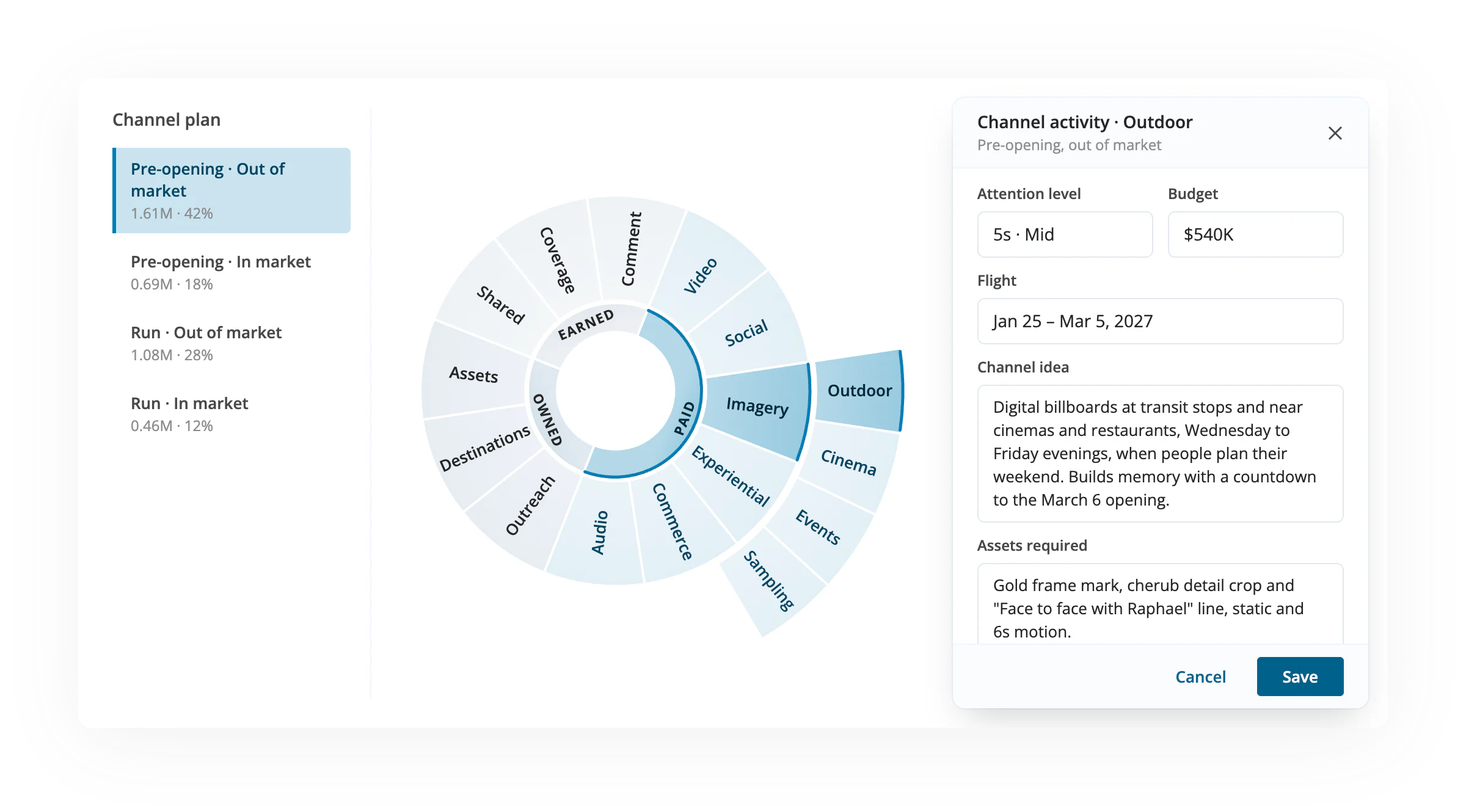
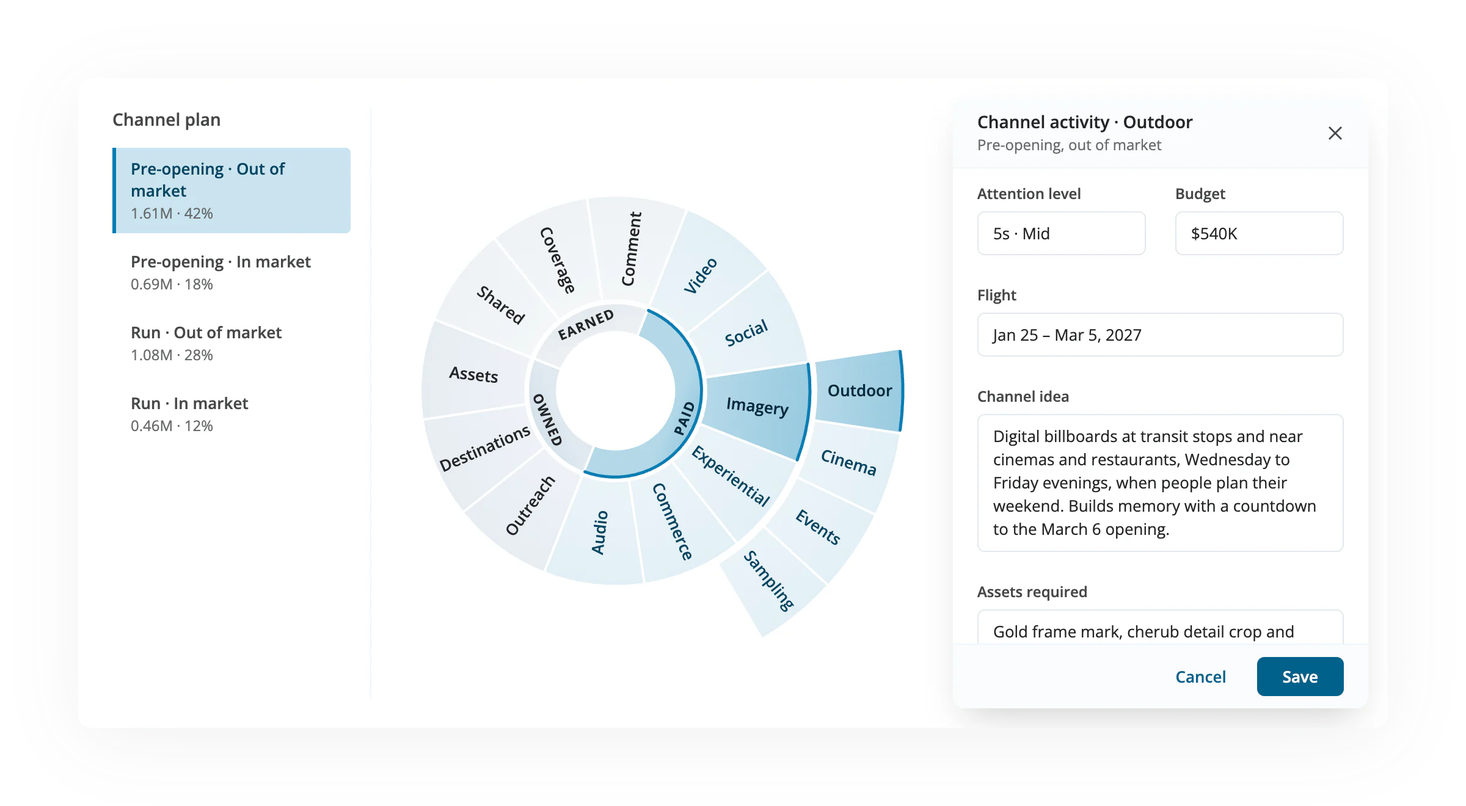
Tighten the module screens' fields, buttons and helper text
Single-line fields are 36px tall, all fields use 13px text and sit 24px
apart, buttons get 6px corners, helper text darkens to #686A6C, and the
side drawers drop their 1px outline but keep their shadow. The Channel
drawer's last field now runs under the footer, which is intended.

diff --git a/design/case2-screens/new-client-ideation.dc.html b/design/case2-screens/new-client-ideation.dc.html
@@ -12,19 +12,19 @@
 <div style="position:relative;width:100%;height:100%;background:#fff;border-radius:10px;box-shadow:0 10px 60px -5px rgba(59,62,63,.08);overflow:hidden">
 <div style="padding:24px 28px;display:flex;flex-direction:column;gap:18px">
 <span style="font-size:14px;font-weight:600">Campaign Brief</span>
-<div style="display:grid;grid-template-columns:1.25fr 1fr;gap:20px">
-<div style="display:flex;flex-direction:column;gap:6px"><span style="display:flex;align-items:center;gap:4px;font-size:12px;font-weight:600;color:#464849">Goal</span><div style="flex:1;background:#fff;border:1px solid #E4E8ED;border-radius:6px;color:#242526;padding:10px 12px;font-size:14px;line-height:22px;text-wrap:pretty">Make the Raphael exhibition the spring show people book early. Only 6% of the city knows it is coming, so we build memory before the March 6 opening, then turn it into ticket sales across the 12-week run.</div></div>
-<div style="display:grid;grid-template-columns:1fr 1fr;gap:12px">
-<div style="grid-column:1 / -1;display:flex;flex-direction:column;gap:6px"><span style="display:flex;align-items:center;gap:4px;font-size:12px;font-weight:600;color:#464849">Core audience</span><div style="background:#fff;border:1px solid #E4E8ED;border-radius:6px;color:#242526;padding:8px 12px;font-size:14px;line-height:20px">Culture-curious adults 25–54 within 90 minutes of the museum</div></div>
-<div style="display:flex;flex-direction:column;gap:6px"><span style="display:flex;align-items:center;gap:4px;font-size:12px;font-weight:600;color:#464849">Awareness KPI</span><div style="background:#fff;border:1px solid #E4E8ED;border-radius:6px;color:#242526;padding:8px 12px;font-size:14px;line-height:20px">6% → 25% by opening</div></div>
-<div style="display:flex;flex-direction:column;gap:6px"><span style="display:flex;align-items:center;gap:4px;font-size:12px;font-weight:600;color:#464849">Ticket KPI</span><div style="background:#fff;border:1px solid #E4E8ED;border-radius:6px;color:#242526;padding:8px 12px;font-size:14px;line-height:20px">180K tickets</div></div>
-<div style="display:flex;flex-direction:column;gap:6px"><span style="display:flex;align-items:center;gap:4px;font-size:12px;font-weight:600;color:#464849">Media budget</span><div style="background:#fff;border:1px solid #E4E8ED;border-radius:6px;color:#242526;padding:8px 12px;font-size:14px;line-height:20px">$4.2M</div></div>
-<div style="display:flex;flex-direction:column;gap:6px"><span style="display:flex;align-items:center;gap:4px;font-size:12px;font-weight:600;color:#464849">Flight</span><div style="background:#fff;border:1px solid #E4E8ED;border-radius:6px;color:#242526;padding:8px 12px;font-size:14px;line-height:20px">Jan 18 – May 30, 2027</div></div>
+<div style="display:grid;grid-template-columns:1.25fr 1fr;gap:24px">
+<div style="display:flex;flex-direction:column;gap:6px"><span style="display:flex;align-items:center;gap:4px;font-size:12px;font-weight:600;color:#464849">Goal</span><div style="flex:1;background:#fff;border:1px solid #E4E8ED;border-radius:6px;color:#242526;padding:8px 12px;font-size:13px;line-height:19px;text-wrap:pretty">Make the Raphael exhibition the spring show people book early. Only 6% of the city knows it is coming, so we build memory before the March 6 opening, then turn it into ticket sales across the 12-week run.</div></div>
+<div style="display:grid;grid-template-columns:1fr 1fr;gap:24px">
+<div style="grid-column:1 / -1;display:flex;flex-direction:column;gap:6px"><span style="display:flex;align-items:center;gap:4px;font-size:12px;font-weight:600;color:#464849">Core audience</span><div style="background:#fff;height:36px;display:flex;align-items:center;border:1px solid #E4E8ED;border-radius:6px;color:#242526;padding:0 12px;font-size:13px;line-height:19px">Culture-curious adults 25–54 within 90 minutes of the museum</div></div>
+<div style="display:flex;flex-direction:column;gap:6px"><span style="display:flex;align-items:center;gap:4px;font-size:12px;font-weight:600;color:#464849">Awareness KPI</span><div style="background:#fff;height:36px;display:flex;align-items:center;border:1px solid #E4E8ED;border-radius:6px;color:#242526;padding:0 12px;font-size:13px;line-height:19px">6% → 25% by opening</div></div>
+<div style="display:flex;flex-direction:column;gap:6px"><span style="display:flex;align-items:center;gap:4px;font-size:12px;font-weight:600;color:#464849">Ticket KPI</span><div style="background:#fff;height:36px;display:flex;align-items:center;border:1px solid #E4E8ED;border-radius:6px;color:#242526;padding:0 12px;font-size:13px;line-height:19px">180K tickets</div></div>
+<div style="display:flex;flex-direction:column;gap:6px"><span style="display:flex;align-items:center;gap:4px;font-size:12px;font-weight:600;color:#464849">Media budget</span><div style="background:#fff;height:36px;display:flex;align-items:center;border:1px solid #E4E8ED;border-radius:6px;color:#242526;padding:0 12px;font-size:13px;line-height:19px">$4.2M</div></div>
+<div style="display:flex;flex-direction:column;gap:6px"><span style="display:flex;align-items:center;gap:4px;font-size:12px;font-weight:600;color:#464849">Flight</span><div style="background:#fff;height:36px;display:flex;align-items:center;border:1px solid #E4E8ED;border-radius:6px;color:#242526;padding:0 12px;font-size:13px;line-height:19px">Jan 18 – May 30, 2027</div></div>
 </div></div>
 <div style="height:1px;background:#F1F5FA"></div>
 <div style="display:grid;grid-template-columns:1fr 1px 1fr;gap:28px">
 <div style="display:flex;flex-direction:column;gap:14px">
-<div style="display:flex;align-items:center;gap:16px"><span style="font-size:14px;font-weight:600">Need states</span><span style="display:flex;align-items:center;gap:6px;height:28px;padding:0 12px;font-size:13px;font-weight:600;color:#00618B;background:#fff;border:1px solid #00618B;border-radius:3px"><svg width="10" height="10" viewBox="0 0 10 10" fill="none" stroke="#00618B" stroke-width="1.5"><path d="M5 1v8M1 5h8"></path></svg>Add state</span></div>
+<div style="display:flex;align-items:center;gap:16px"><span style="font-size:14px;font-weight:600">Need states</span><span style="display:flex;align-items:center;gap:6px;height:28px;padding:0 12px;font-size:13px;font-weight:600;color:#00618B;background:#fff;border:1px solid #00618B;border-radius:6px"><svg width="10" height="10" viewBox="0 0 10 10" fill="none" stroke="#00618B" stroke-width="1.5"><path d="M5 1v8M1 5h8"></path></svg>Add state</span></div>
 <div style="display:flex;flex-wrap:wrap;gap:10px">
 <span style="display:flex;align-items:center;gap:8px;height:32px;padding:0 8px 0 12px;background:#CAE4EF;border:1px solid #CAE4EF;border-radius:6px;font-size:14px;color:#00618B">Weekend plans for two<svg width="16" height="16" viewBox="0 0 16 16" fill="none" stroke="#00618B" stroke-width="1.4" stroke-linecap="round"><circle cx="8" cy="8" r="6.5"></circle><path d="M5.8 5.8l4.4 4.4M10.2 5.8l-4.4 4.4"></path></svg></span>
 <span style="display:flex;align-items:center;gap:8px;height:32px;padding:0 8px 0 12px;background:#CAE4EF;border:1px solid #CAE4EF;border-radius:6px;font-size:14px;color:#00618B">A reason to go into town<svg width="16" height="16" viewBox="0 0 16 16" fill="none" stroke="#00618B" stroke-width="1.4" stroke-linecap="round"><circle cx="8" cy="8" r="6.5"></circle><path d="M5.8 5.8l4.4 4.4M10.2 5.8l-4.4 4.4"></path></svg></span>
@@ -33,7 +33,7 @@
 </div></div>
 <div style="background:#F1F5FA"></div>
 <div style="display:flex;flex-direction:column;gap:14px">
-<div style="display:flex;align-items:center;gap:16px"><span style="font-size:14px;font-weight:600">Distinctive assets</span><span style="display:flex;align-items:center;gap:6px;height:28px;padding:0 12px;font-size:13px;font-weight:600;color:#00618B;background:#fff;border:1px solid #00618B;border-radius:3px"><svg width="10" height="10" viewBox="0 0 10 10" fill="none" stroke="#00618B" stroke-width="1.5"><path d="M5 1v8M1 5h8"></path></svg>Add asset</span></div>
+<div style="display:flex;align-items:center;gap:16px"><span style="font-size:14px;font-weight:600">Distinctive assets</span><span style="display:flex;align-items:center;gap:6px;height:28px;padding:0 12px;font-size:13px;font-weight:600;color:#00618B;background:#fff;border:1px solid #00618B;border-radius:6px"><svg width="10" height="10" viewBox="0 0 10 10" fill="none" stroke="#00618B" stroke-width="1.5"><path d="M5 1v8M1 5h8"></path></svg>Add asset</span></div>
 <div style="display:flex;flex-wrap:wrap;gap:10px">
 <span style="display:flex;align-items:center;gap:8px;height:32px;padding:0 8px 0 12px;background:#CAE4EF;border:1px solid #CAE4EF;border-radius:6px;font-size:14px;color:#00618B">Gold frame mark<svg width="16" height="16" viewBox="0 0 16 16" fill="none" stroke="#00618B" stroke-width="1.4" stroke-linecap="round"><circle cx="8" cy="8" r="6.5"></circle><path d="M5.8 5.8l4.4 4.4M10.2 5.8l-4.4 4.4"></path></svg></span>
 <span style="display:flex;align-items:center;gap:8px;height:32px;padding:0 8px 0 12px;background:#CAE4EF;border:1px solid #CAE4EF;border-radius:6px;font-size:14px;color:#00618B">"Face to face with Raphael" line<svg width="16" height="16" viewBox="0 0 16 16" fill="none" stroke="#00618B" stroke-width="1.4" stroke-linecap="round"><circle cx="8" cy="8" r="6.5"></circle><path d="M5.8 5.8l4.4 4.4M10.2 5.8l-4.4 4.4"></path></svg></span>

diff --git a/design/case2-screens/new-client-audience.dc.html b/design/case2-screens/new-client-audience.dc.html
@@ -11,14 +11,14 @@
 <div id="shot-2" data-screen-label="02 Audience viz" style="width:1120px;height:580px;padding:24px;background:transparent;font-family:'Open Sans',sans-serif">
 <div style="position:relative;width:100%;height:100%;background:#fff;border-radius:10px;box-shadow:0 10px 60px -5px rgba(59,62,63,.08);overflow:hidden">
 <div style="position:absolute;top:0;left:0;bottom:0;width:700px;padding:24px 28px">
-<div style="display:flex;justify-content:space-between;align-items:baseline;gap:16px"><span style="font-size:14px;font-weight:600;white-space:nowrap">Core Audience</span><span style="display:flex;align-items:center;gap:8px"><span style="font-size:13px;color:#8B8D90;white-space:nowrap"><br></span></span></div>
+<div style="display:flex;justify-content:space-between;align-items:baseline;gap:16px"><span style="font-size:14px;font-weight:600;white-space:nowrap">Core Audience</span><span style="display:flex;align-items:center;gap:8px"><span style="font-size:13px;color:#686A6C;white-space:nowrap"><br></span></span></div>
 <div style="position:relative;margin-top:22px;height:370px">
-<div style="position:absolute;left:110px;top:0;width:270px;text-align:center;display:flex;flex-direction:column;gap:1px"><span style="font-size:14px;font-weight:600">Pre-opening</span><span style="font-size:12px;color:#8B8D90">Jan–Feb · 2.30M · 60%</span></div>
-<div style="position:absolute;left:380px;top:0;width:270px;text-align:center;display:flex;flex-direction:column;gap:1px"><span style="font-size:14px;font-weight:600">Run</span><span style="font-size:12px;color:#8B8D90">Mar–May · 1.54M · 40%</span></div>
+<div style="position:absolute;left:110px;top:0;width:270px;text-align:center;display:flex;flex-direction:column;gap:1px"><span style="font-size:14px;font-weight:600">Pre-opening</span><span style="font-size:12px;color:#686A6C">Jan–Feb · 2.30M · 60%</span></div>
+<div style="position:absolute;left:380px;top:0;width:270px;text-align:center;display:flex;flex-direction:column;gap:1px"><span style="font-size:14px;font-weight:600">Run</span><span style="font-size:12px;color:#686A6C">Mar–May · 1.54M · 40%</span></div>
 <span style="position:absolute;left:0;top:144px;font-size:14px;font-weight:600">Out of market</span>
-<span style="position:absolute;left:0;top:162px;font-size:12px;color:#8B8D90">70%</span>
+<span style="position:absolute;left:0;top:162px;font-size:12px;color:#686A6C">70%</span>
 <span style="position:absolute;left:0;top:293px;font-size:14px;font-weight:600">In the market</span>
-<span style="position:absolute;left:0;top:311px;font-size:12px;color:#8B8D90">30%</span>
+<span style="position:absolute;left:0;top:311px;font-size:12px;color:#686A6C">30%</span>
 <svg style="position:absolute;left:110px;top:50px" width="540" height="316" viewBox="0 0 540 316">
 <polygon points="0,0 270,0 270,221 97,221" fill="#CAE4EF" stroke="#007DB3" stroke-width="1.5"></polygon>
 <polygon points="270,0 540,0 443,221 270,221" fill="#F1F5FA" stroke="#fff" stroke-width="3"></polygon>
@@ -26,11 +26,11 @@
 <polygon points="270,221 443,221 401,316 270,316" fill="#F1F5FA" stroke="#fff" stroke-width="3"></polygon>
 </svg>
 <div style="position:absolute;left:220px;top:136px;display:flex;flex-direction:column;align-items:center;gap:2px"><span style="font-size:18px;font-weight:600;color:#004563">1.61M</span><span style="font-size:12px;color:#004563">42% of audience</span></div>
-<div style="position:absolute;left:450px;top:136px;display:flex;flex-direction:column;align-items:center;gap:2px"><span style="font-size:18px;font-weight:600">1.08M</span><span style="font-size:12px;color:#8B8D90">28% of audience</span></div>
-<div style="position:absolute;left:256px;top:300px;display:flex;flex-direction:column;align-items:center;gap:2px"><span style="font-size:16px;font-weight:600">0.69M</span><span style="font-size:12px;color:#8B8D90">18%</span></div>
-<div style="position:absolute;left:426px;top:300px;display:flex;flex-direction:column;align-items:center;gap:2px"><span style="font-size:16px;font-weight:600">0.46M</span><span style="font-size:12px;color:#8B8D90">12%</span></div>
+<div style="position:absolute;left:450px;top:136px;display:flex;flex-direction:column;align-items:center;gap:2px"><span style="font-size:18px;font-weight:600">1.08M</span><span style="font-size:12px;color:#686A6C">28% of audience</span></div>
+<div style="position:absolute;left:256px;top:300px;display:flex;flex-direction:column;align-items:center;gap:2px"><span style="font-size:16px;font-weight:600">0.69M</span><span style="font-size:12px;color:#686A6C">18%</span></div>
+<div style="position:absolute;left:426px;top:300px;display:flex;flex-direction:column;align-items:center;gap:2px"><span style="font-size:16px;font-weight:600">0.46M</span><span style="font-size:12px;color:#686A6C">12%</span></div>
 </div></div>
-<div style="position:absolute;top:16px;right:16px;bottom:16px;width:340px;background:#fff;border-radius:10px;box-shadow:0 15px 30px -9px rgba(36,37,38,.22),0 0 0 1px #F1F5FA;display:flex;flex-direction:column;overflow:hidden">
+<div style="position:absolute;top:16px;right:16px;bottom:16px;width:340px;background:#fff;border-radius:10px;box-shadow:0 15px 30px -9px rgba(36,37,38,.22);display:flex;flex-direction:column;overflow:hidden">
 <div style="display:flex;justify-content:space-between;align-items:center;padding:10px 20px;border-bottom:1px solid #F1F5FA;background:#FAFBFD"><span style="font-size:14px;font-weight:600;color:#242526">Strategy · Pre-opening, out of market</span><svg width="14" height="14" viewBox="0 0 14 14" fill="none" stroke="#464849" stroke-width="1.4"><path d="M2 2l10 10M12 2L2 12"></path></svg></div>
 <div style="padding:12px 20px;display:flex;flex-direction:column;gap:10px;flex:1;min-height:0;overflow:hidden">
 <div style="display:flex;flex-direction:column;gap:7px"><div style="display:flex;justify-content:space-between;font-size:13px;font-weight:600"><span>Information</span><span>Associations</span></div><div style="position:relative;height:4px;border-radius:2px;background:#CAE4EF"><div style="width:78%;height:4px;border-radius:2px;background:#007DB3"></div><div style="position:absolute;left:78%;top:-6px;width:16px;height:16px;margin-left:-8px;border-radius:50%;background:#007DB3;box-shadow:0 0 0 2px #fff,0 2px 4px rgba(0,125,179,.3)"></div></div></div>
@@ -45,7 +45,7 @@
 <span>Activating</span><div style="height:8px;border-radius:4px;width:12%;background:#CAE4EF"></div>
 </div></div>
 <div style="display:flex;flex-direction:column;gap:6px"><span style="display:flex;align-items:center;gap:4px;font-size:12px;font-weight:600;color:#464849">Strategy</span><div style="background:#fff;border:1px solid #E4E8ED;border-radius:6px;color:#242526;padding:8px 12px;font-size:13px;line-height:19px;text-wrap:pretty"><span style="font-weight:600">Build memory before opening.</span> Most of this group doesn't know the show is coming. Tie the exhibition to weekend plans now, so awareness is near 25% when they book in March.</div></div>
-</div><div style="margin-top:auto;display:flex;justify-content:flex-end;gap:8px;padding:10px 20px;border-top:1px solid #F1F5FA;background:#FAFBFD"><span style="display:flex;align-items:center;height:32px;padding:0 16px;font-size:13px;font-weight:600;color:#00618B;background:transparent;border:1px solid transparent;border-radius:3px">Cancel</span><span style="display:flex;align-items:center;height:32px;padding:0 20px;font-size:13px;font-weight:600;color:#fff;background:#00618B;border:1px solid #00618B;border-radius:3px">Save</span></div></div>
+</div><div style="margin-top:auto;display:flex;justify-content:flex-end;gap:8px;padding:10px 20px;border-top:1px solid #F1F5FA;background:#FAFBFD"><span style="display:flex;align-items:center;height:32px;padding:0 16px;font-size:13px;font-weight:600;color:#00618B;background:transparent;border:1px solid transparent;border-radius:6px">Cancel</span><span style="display:flex;align-items:center;height:32px;padding:0 20px;font-size:13px;font-weight:600;color:#fff;background:#00618B;border:1px solid #00618B;border-radius:6px">Save</span></div></div>
 </div></div>
 </x-dc>
 <script type="text/x-dc" data-dc-script>

diff --git a/design/case2-screens/new-client-channel.dc.html b/design/case2-screens/new-client-channel.dc.html
@@ -14,7 +14,7 @@
 <div style="width:212px;flex:none;display:flex;flex-direction:column;gap:6px;border-right:1px solid #F1F5FA;padding-right:16px">
 <div style="display:flex;flex-direction:column;align-items:flex-start;gap:6px;padding-bottom:8px"><span style="font-size:14px;font-weight:600">Channel plan</span></div>
 <sc-for list="{{ segments }}" as="g" hint-placeholder-count="4">
-<div style="display:flex;flex-direction:column;gap:1px;padding:8px 12px;border-left:3px solid {{ g.border }};background:{{ g.bg }};border-radius:0 4px 4px 0"><span style="font-size:13px;font-weight:600;color:{{ g.fg }}">{{ g.name }}</span><span style="font-size:12px;color:#8B8D90">{{ g.meta }}</span></div>
+<div style="display:flex;flex-direction:column;gap:1px;padding:8px 12px;border-left:3px solid {{ g.border }};background:{{ g.bg }};border-radius:0 4px 4px 0"><span style="font-size:13px;font-weight:600;color:{{ g.fg }}">{{ g.name }}</span><span style="font-size:12px;color:#686A6C">{{ g.meta }}</span></div>
 </sc-for>
 </div>
 <div style="position:relative;flex:none;width:460px;height:476px;margin-top:-6px"><svg width="460" height="476" viewBox="0 0 460 476" style="position:absolute;left:0;top:0">
@@ -35,17 +35,17 @@
 </sc-for>
 </div>
 </div>
-<div style="position:absolute;top:16px;right:16px;bottom:16px;width:340px;background:#fff;border-radius:10px;box-shadow:0 15px 30px -9px rgba(36,37,38,.22),0 0 0 1px #F1F5FA;display:flex;flex-direction:column;overflow:hidden">
-<div style="display:flex;justify-content:space-between;align-items:center;padding:10px 20px;border-bottom:1px solid #F1F5FA;background:#FAFBFD"><div style="display:flex;flex-direction:column;gap:1px"><span style="font-size:14px;font-weight:600;color:#242526">Channel activity · Outdoor</span><span style="font-size:12px;color:#8B8D90">Pre-opening, out of market</span></div><svg width="14" height="14" viewBox="0 0 14 14" fill="none" stroke="#464849" stroke-width="1.4"><path d="M2 2l10 10M12 2L2 12"></path></svg></div>
-<div style="padding:12px 20px;display:flex;flex-direction:column;gap:10px;flex:1;min-height:0;overflow:hidden">
-<div style="display:grid;grid-template-columns:1fr 1fr;gap:12px">
-<div style="display:flex;flex-direction:column;gap:6px"><span style="display:flex;align-items:center;gap:4px;font-size:12px;font-weight:600;color:#464849;white-space:nowrap">Attention level</span><div style="background:#fff;border:1px solid #E4E8ED;border-radius:6px;color:#242526;padding:8px 12px;font-size:14px;line-height:20px;white-space:nowrap">5s · Mid</div></div>
-<div style="display:flex;flex-direction:column;gap:6px"><span style="display:flex;align-items:center;gap:4px;font-size:12px;font-weight:600;color:#464849">Budget</span><div style="background:#fff;border:1px solid #E4E8ED;border-radius:6px;color:#242526;padding:8px 12px;font-size:14px;line-height:20px">$540K</div></div>
+<div style="position:absolute;top:16px;right:16px;bottom:16px;width:340px;background:#fff;border-radius:10px;box-shadow:0 15px 30px -9px rgba(36,37,38,.22);display:flex;flex-direction:column;overflow:hidden">
+<div style="display:flex;justify-content:space-between;align-items:center;padding:10px 20px;border-bottom:1px solid #F1F5FA;background:#FAFBFD"><div style="display:flex;flex-direction:column;gap:1px"><span style="font-size:14px;font-weight:600;color:#242526">Channel activity · Outdoor</span><span style="font-size:12px;color:#686A6C">Pre-opening, out of market</span></div><svg width="14" height="14" viewBox="0 0 14 14" fill="none" stroke="#464849" stroke-width="1.4"><path d="M2 2l10 10M12 2L2 12"></path></svg></div>
+<div style="padding:12px 20px;display:flex;flex-direction:column;gap:24px;flex:1;min-height:0;overflow:hidden">
+<div style="display:grid;grid-template-columns:1fr 1fr;gap:24px">
+<div style="display:flex;flex-direction:column;gap:6px"><span style="display:flex;align-items:center;gap:4px;font-size:12px;font-weight:600;color:#464849;white-space:nowrap">Attention level</span><div style="background:#fff;height:36px;display:flex;align-items:center;border:1px solid #E4E8ED;border-radius:6px;color:#242526;padding:0 12px;font-size:13px;line-height:19px;white-space:nowrap">5s · Mid</div></div>
+<div style="display:flex;flex-direction:column;gap:6px"><span style="display:flex;align-items:center;gap:4px;font-size:12px;font-weight:600;color:#464849">Budget</span><div style="background:#fff;height:36px;display:flex;align-items:center;border:1px solid #E4E8ED;border-radius:6px;color:#242526;padding:0 12px;font-size:13px;line-height:19px">$540K</div></div>
 </div>
-<div style="display:flex;flex-direction:column;gap:6px"><span style="display:flex;align-items:center;gap:4px;font-size:12px;font-weight:600;color:#464849">Flight</span><div style="background:#fff;border:1px solid #E4E8ED;border-radius:6px;color:#242526;padding:8px 12px;font-size:14px;line-height:20px">Jan 25 – Mar 5, 2027</div></div>
+<div style="display:flex;flex-direction:column;gap:6px"><span style="display:flex;align-items:center;gap:4px;font-size:12px;font-weight:600;color:#464849">Flight</span><div style="background:#fff;height:36px;display:flex;align-items:center;border:1px solid #E4E8ED;border-radius:6px;color:#242526;padding:0 12px;font-size:13px;line-height:19px">Jan 25 – Mar 5, 2027</div></div>
 <div style="display:flex;flex-direction:column;gap:6px"><span style="display:flex;align-items:center;gap:4px;font-size:12px;font-weight:600;color:#464849">Channel idea</span><div style="background:#fff;border:1px solid #E4E8ED;border-radius:6px;color:#242526;padding:8px 12px;font-size:13px;line-height:19px;text-wrap:pretty">Digital billboards at transit stops and near cinemas and restaurants, Wednesday to Friday evenings, when people plan their weekend. Builds memory with a countdown to the March 6 opening.</div></div>
 <div style="display:flex;flex-direction:column;gap:6px"><span style="display:flex;align-items:center;gap:4px;font-size:12px;font-weight:600;color:#464849">Assets required</span><div style="background:#fff;border:1px solid #E4E8ED;border-radius:6px;color:#242526;padding:8px 12px;font-size:13px;line-height:19px;text-wrap:pretty">Gold frame mark, cherub detail crop and "Face to face with Raphael" line, static and 6s motion.</div></div>
-</div><div style="margin-top:auto;display:flex;justify-content:flex-end;gap:8px;padding:10px 20px;border-top:1px solid #F1F5FA;background:#FAFBFD"><span style="display:flex;align-items:center;height:32px;padding:0 16px;font-size:13px;font-weight:600;color:#00618B;background:transparent;border:1px solid transparent;border-radius:3px">Cancel</span><span style="display:flex;align-items:center;height:32px;padding:0 20px;font-size:13px;font-weight:600;color:#fff;background:#00618B;border:1px solid #00618B;border-radius:3px">Save</span></div></div>
+</div><div style="margin-top:auto;display:flex;justify-content:flex-end;gap:8px;padding:10px 20px;border-top:1px solid #F1F5FA;background:#FAFBFD"><span style="display:flex;align-items:center;height:32px;padding:0 16px;font-size:13px;font-weight:600;color:#00618B;background:transparent;border:1px solid transparent;border-radius:6px">Cancel</span><span style="display:flex;align-items:center;height:32px;padding:0 20px;font-size:13px;font-weight:600;color:#fff;background:#00618B;border:1px solid #00618B;border-radius:6px">Save</span></div></div>
 </div></div>
 </x-dc>
 <script type="text/x-dc" data-dc-script>

diff --git a/design/case2-screens/return-client-channel.dc.html b/design/case2-screens/return-client-channel.dc.html
@@ -14,7 +14,7 @@
 <div style="width:212px;flex:none;display:flex;flex-direction:column;gap:6px;border-right:1px solid #F1F5FA;padding-right:16px">
 <div style="display:flex;flex-direction:column;align-items:flex-start;gap:6px;padding-bottom:8px"><span style="font-size:14px;font-weight:600">Channel plan</span></div>
 <sc-for list="{{ segments }}" as="g" hint-placeholder-count="4">
-<div style="display:flex;flex-direction:column;gap:1px;padding:8px 12px;border-left:3px solid {{ g.border }};background:{{ g.bg }};border-radius:0 4px 4px 0"><span style="font-size:13px;font-weight:600;color:{{ g.fg }}">{{ g.name }}</span><span style="font-size:12px;color:#8B8D90">{{ g.meta }}</span></div>
+<div style="display:flex;flex-direction:column;gap:1px;padding:8px 12px;border-left:3px solid {{ g.border }};background:{{ g.bg }};border-radius:0 4px 4px 0"><span style="font-size:13px;font-weight:600;color:{{ g.fg }}">{{ g.name }}</span><span style="font-size:12px;color:#686A6C">{{ g.meta }}</span></div>
 </sc-for>
 </div>
 <div style="position:relative;flex:none;width:460px;height:476px;margin-top:-6px"><svg width="460" height="476" viewBox="0 0 460 476" style="position:absolute;left:0;top:0">
@@ -35,17 +35,17 @@
 </sc-for>
 </div>
 </div>
-<div style="position:absolute;top:16px;right:16px;bottom:16px;width:340px;background:#fff;border-radius:10px;box-shadow:0 15px 30px -9px rgba(36,37,38,.22),0 0 0 1px #F1F5FA;display:flex;flex-direction:column;overflow:hidden">
-<div style="display:flex;justify-content:space-between;align-items:center;padding:10px 20px;border-bottom:1px solid #F1F5FA;background:#FAFBFD"><div style="display:flex;flex-direction:column;gap:1px"><span style="font-size:14px;font-weight:600;color:#242526">Channel activity · Retail</span><span style="font-size:12px;color:#8B8D90">Fall, in market</span></div><svg width="14" height="14" viewBox="0 0 14 14" fill="none" stroke="#464849" stroke-width="1.4"><path d="M2 2l10 10M12 2L2 12"></path></svg></div>
-<div style="padding:12px 20px;display:flex;flex-direction:column;gap:10px;flex:1;min-height:0;overflow:hidden">
-<div style="display:grid;grid-template-columns:1fr 1fr;gap:12px">
-<div style="display:flex;flex-direction:column;gap:6px"><span style="display:flex;align-items:center;gap:4px;font-size:12px;font-weight:600;color:#464849;white-space:nowrap">Attention level</span><div style="background:#fff;border:1px solid #E4E8ED;border-radius:6px;color:#242526;padding:8px 12px;font-size:14px;line-height:20px;white-space:nowrap">3s · Mid-low</div></div>
-<div style="display:flex;flex-direction:column;gap:6px"><span style="display:flex;align-items:center;gap:4px;font-size:12px;font-weight:600;color:#464849">Budget</span><div style="background:#fff;border:1px solid #E4E8ED;border-radius:6px;color:#242526;padding:8px 12px;font-size:14px;line-height:20px">$380K</div></div>
+<div style="position:absolute;top:16px;right:16px;bottom:16px;width:340px;background:#fff;border-radius:10px;box-shadow:0 15px 30px -9px rgba(36,37,38,.22);display:flex;flex-direction:column;overflow:hidden">
+<div style="display:flex;justify-content:space-between;align-items:center;padding:10px 20px;border-bottom:1px solid #F1F5FA;background:#FAFBFD"><div style="display:flex;flex-direction:column;gap:1px"><span style="font-size:14px;font-weight:600;color:#242526">Channel activity · Retail</span><span style="font-size:12px;color:#686A6C">Fall, in market</span></div><svg width="14" height="14" viewBox="0 0 14 14" fill="none" stroke="#464849" stroke-width="1.4"><path d="M2 2l10 10M12 2L2 12"></path></svg></div>
+<div style="padding:12px 20px;display:flex;flex-direction:column;gap:24px;flex:1;min-height:0;overflow:hidden">
+<div style="display:grid;grid-template-columns:1fr 1fr;gap:24px">
+<div style="display:flex;flex-direction:column;gap:6px"><span style="display:flex;align-items:center;gap:4px;font-size:12px;font-weight:600;color:#464849;white-space:nowrap">Attention level</span><div style="background:#fff;height:36px;display:flex;align-items:center;border:1px solid #E4E8ED;border-radius:6px;color:#242526;padding:0 12px;font-size:13px;line-height:19px;white-space:nowrap">3s · Mid-low</div></div>
+<div style="display:flex;flex-direction:column;gap:6px"><span style="display:flex;align-items:center;gap:4px;font-size:12px;font-weight:600;color:#464849">Budget</span><div style="background:#fff;height:36px;display:flex;align-items:center;border:1px solid #E4E8ED;border-radius:6px;color:#242526;padding:0 12px;font-size:13px;line-height:19px">$380K</div></div>
 </div>
-<div style="display:flex;flex-direction:column;gap:6px"><span style="display:flex;align-items:center;gap:4px;font-size:12px;font-weight:600;color:#464849">Flight</span><div style="background:#fff;border:1px solid #E4E8ED;border-radius:6px;color:#242526;padding:8px 12px;font-size:14px;line-height:20px">Sep 8 – Oct 31, 2027</div></div>
+<div style="display:flex;flex-direction:column;gap:6px"><span style="display:flex;align-items:center;gap:4px;font-size:12px;font-weight:600;color:#464849">Flight</span><div style="background:#fff;height:36px;display:flex;align-items:center;border:1px solid #E4E8ED;border-radius:6px;color:#242526;padding:0 12px;font-size:13px;line-height:19px">Sep 8 – Oct 31, 2027</div></div>
 <div style="display:flex;flex-direction:column;gap:6px"><span style="display:flex;align-items:center;gap:4px;font-size:12px;font-weight:600;color:#464849">Channel idea</span><div style="background:#fff;border:1px solid #E4E8ED;border-radius:6px;color:#242526;padding:8px 12px;font-size:13px;line-height:19px;text-wrap:pretty">Sponsored listings on outdoor retailer sites and apps next to boots and jackets, weekend mornings. Spring buyers get a prompt for matching gear before the first cold-weather trips.</div></div>
 <div style="display:flex;flex-direction:column;gap:6px"><span style="display:flex;align-items:center;gap:4px;font-size:12px;font-weight:600;color:#464849">Assets required</span><div style="background:#fff;border:1px solid #E4E8ED;border-radius:6px;color:#242526;padding:8px 12px;font-size:13px;line-height:19px;text-wrap:pretty">Peak logo, trail pack shot and "Carry further" line, static banners and 3s bumper video.</div></div>
-</div><div style="margin-top:auto;display:flex;justify-content:flex-end;gap:8px;padding:10px 20px;border-top:1px solid #F1F5FA;background:#FAFBFD"><span style="display:flex;align-items:center;height:32px;padding:0 16px;font-size:13px;font-weight:600;color:#00618B;background:transparent;border:1px solid transparent;border-radius:3px">Cancel</span><span style="display:flex;align-items:center;height:32px;padding:0 20px;font-size:13px;font-weight:600;color:#fff;background:#00618B;border:1px solid #00618B;border-radius:3px">Save</span></div></div>
+</div><div style="margin-top:auto;display:flex;justify-content:flex-end;gap:8px;padding:10px 20px;border-top:1px solid #F1F5FA;background:#FAFBFD"><span style="display:flex;align-items:center;height:32px;padding:0 16px;font-size:13px;font-weight:600;color:#00618B;background:transparent;border:1px solid transparent;border-radius:6px">Cancel</span><span style="display:flex;align-items:center;height:32px;padding:0 20px;font-size:13px;font-weight:600;color:#fff;background:#00618B;border:1px solid #00618B;border-radius:6px">Save</span></div></div>
 </div></div>
 </x-dc>
 <script type="text/x-dc" data-dc-script>

diff --git a/design/case2-screens/new-client-attention.dc.html b/design/case2-screens/new-client-attention.dc.html
@@ -18,28 +18,28 @@
 </div>
 <div style="display:flex;flex-direction:column;gap:12px">
 <span style="font-size:14px;font-weight:600">Contact</span>
-<div style="display:grid;grid-template-columns:repeat(3,1fr);gap:14px 24px">
+<div style="display:grid;grid-template-columns:repeat(3,1fr);gap:24px">
 <sc-for list="{{ questions }}" as="q" hint-placeholder-count="6">
 <div style="display:flex;flex-direction:column;gap:6px"><div style="display:flex;justify-content:space-between;gap:8px;font-size:12px;font-weight:600;color:#464849"><span style="display:flex;align-items:center;gap:4px">{{ q.q }}</span><span style="width:60px;flex:none">Weight</span></div>
-<div style="display:flex;gap:8px"><div style="flex:1;height:36px;display:flex;align-items:center;justify-content:space-between;padding:0 12px;background:#fff;border:1px solid #E4E8ED;border-radius:6px;color:#242526;font-size:14px"><span style="display:flex;align-items:center;gap:8px">{{ q.a }}</span></div><div style="width:60px;height:36px;display:flex;align-items:center;justify-content:space-between;padding:0 10px;background:#fff;border:1px solid #E4E8ED;border-radius:6px;color:#242526;font-size:14px">{{ q.w }}<svg width="12" height="12" viewBox="0 0 12 12" fill="none" stroke="#686A6C" stroke-width="1.4"><path d="M2 4.5l4 4 4-4"></path></svg></div></div></div>
+<div style="display:flex;gap:8px"><div style="flex:1;height:36px;display:flex;align-items:center;justify-content:space-between;padding:0 12px;background:#fff;border:1px solid #E4E8ED;border-radius:6px;color:#242526;font-size:13px"><span style="display:flex;align-items:center;gap:8px">{{ q.a }}</span></div><div style="width:60px;height:36px;display:flex;align-items:center;justify-content:space-between;padding:0 10px;background:#fff;border:1px solid #E4E8ED;border-radius:6px;color:#242526;font-size:13px">{{ q.w }}<svg width="12" height="12" viewBox="0 0 12 12" fill="none" stroke="#686A6C" stroke-width="1.4"><path d="M2 4.5l4 4 4-4"></path></svg></div></div></div>
 </sc-for>
 </div></div>
 <div style="height:1px;background:#F1F5FA"></div>
 <div style="display:flex;flex-direction:column;gap:12px">
 <div style="display:flex;justify-content:space-between;align-items:flex-end;gap:24px">
-<div style="display:flex;flex-direction:column;gap:3px"><span style="font-size:14px;font-weight:600">Recommendation</span><span style="font-size:13px;color:#8B8D90">A building strategy for a low-awareness brand puts most of the budget into 5s and 10s.</span></div>
-<div style="display:flex;flex-direction:column;gap:6px;width:300px;flex:none"><span style="display:flex;align-items:center;gap:4px;font-size:12px;font-weight:600;color:#464849">Attention levels</span><div style="height:36px;display:flex;align-items:center;justify-content:space-between;padding:0 12px;background:#fff;border:1px solid #E4E8ED;border-radius:6px;color:#242526;font-size:14px">5-part mix (2s, 3s, 5s, 10s, 20s)<svg width="12" height="12" viewBox="0 0 12 12" fill="none" stroke="#686A6C" stroke-width="1.4"><path d="M2 4.5l4 4 4-4"></path></svg></div></div>
+<div style="display:flex;flex-direction:column;gap:3px"><span style="font-size:14px;font-weight:600">Recommendation</span><span style="font-size:13px;color:#686A6C">A building strategy for a low-awareness brand puts most of the budget into 5s and 10s.</span></div>
+<div style="display:flex;flex-direction:column;gap:6px;width:300px;flex:none"><span style="display:flex;align-items:center;gap:4px;font-size:12px;font-weight:600;color:#464849">Attention levels</span><div style="height:36px;display:flex;align-items:center;justify-content:space-between;padding:0 12px;background:#fff;border:1px solid #E4E8ED;border-radius:6px;color:#242526;font-size:13px">5-part mix (2s, 3s, 5s, 10s, 20s)<svg width="12" height="12" viewBox="0 0 12 12" fill="none" stroke="#686A6C" stroke-width="1.4"><path d="M2 4.5l4 4 4-4"></path></svg></div></div>
 </div>
 <div style="display:flex;flex-direction:column;gap:10px;background:#F1F5FA;border-radius:10px;padding:16px 24px 14px">
 <div style="display:grid;grid-template-columns:repeat(5,1fr)">
 <sc-for list="{{ levels }}" as="l" hint-placeholder-count="5">
 <div style="display:flex;justify-content:center;gap:24px;border-left:{{ l.bl }}">
-<div style="display:flex;flex-direction:column;align-items:center"><span style="font-size:20px;line-height:26px;font-weight:600;color:#242526">{{ l.s }}</span><span style="font-size:12px;color:#8B8D90">{{ l.name }}</span></div>
-<div style="display:flex;flex-direction:column;align-items:center"><span style="font-size:20px;line-height:26px;font-weight:600;color:{{ l.c }}">{{ l.pct }}</span><span style="font-size:12px;color:#8B8D90">{{ l.amt }}</span></div>
+<div style="display:flex;flex-direction:column;align-items:center"><span style="font-size:20px;line-height:26px;font-weight:600;color:#242526">{{ l.s }}</span><span style="font-size:12px;color:#686A6C">{{ l.name }}</span></div>
+<div style="display:flex;flex-direction:column;align-items:center"><span style="font-size:20px;line-height:26px;font-weight:600;color:{{ l.c }}">{{ l.pct }}</span><span style="font-size:12px;color:#686A6C">{{ l.amt }}</span></div>
 </div>
 </sc-for>
 </div>
-<span style="display:flex;justify-content:center;align-items:center;gap:8px;font-size:12px;color:#8B8D90">Split of the $4.2M media budget<span>Percentages are rounded so the full budget is allocated.</span></span>
+<span style="display:flex;justify-content:center;align-items:center;gap:8px;font-size:12px;color:#686A6C">Split of the $4.2M media budget<span>Percentages are rounded so the full budget is allocated.</span></span>
 </div></div>
 </div></div></div>
 </x-dc>

diff --git a/design/case2-screens/return-client-attention.dc.html b/design/case2-screens/return-client-attention.dc.html
@@ -18,28 +18,28 @@
 </div>
 <div style="display:flex;flex-direction:column;gap:12px">
 <span style="font-size:14px;font-weight:600">Contact</span>
-<div style="display:grid;grid-template-columns:repeat(3,1fr);gap:14px 24px">
+<div style="display:grid;grid-template-columns:repeat(3,1fr);gap:24px">
 <sc-for list="{{ questions }}" as="q" hint-placeholder-count="6">
 <div style="display:flex;flex-direction:column;gap:6px"><div style="display:flex;justify-content:space-between;gap:8px;font-size:12px;font-weight:600;color:#464849"><span style="display:flex;align-items:center;gap:4px">{{ q.q }}</span><span style="width:60px;flex:none">Weight</span></div>
-<div style="display:flex;gap:8px"><div style="flex:1;height:36px;display:flex;align-items:center;justify-content:space-between;padding:0 12px;background:#fff;border:1px solid #E4E8ED;border-radius:6px;color:#242526;font-size:14px"><span style="display:flex;align-items:center;gap:8px">{{ q.a }}</span></div><div style="width:60px;height:36px;display:flex;align-items:center;justify-content:space-between;padding:0 10px;background:#fff;border:1px solid #E4E8ED;border-radius:6px;color:#242526;font-size:14px">{{ q.w }}<svg width="12" height="12" viewBox="0 0 12 12" fill="none" stroke="#686A6C" stroke-width="1.4"><path d="M2 4.5l4 4 4-4"></path></svg></div></div></div>
+<div style="display:flex;gap:8px"><div style="flex:1;height:36px;display:flex;align-items:center;justify-content:space-between;padding:0 12px;background:#fff;border:1px solid #E4E8ED;border-radius:6px;color:#242526;font-size:13px"><span style="display:flex;align-items:center;gap:8px">{{ q.a }}</span></div><div style="width:60px;height:36px;display:flex;align-items:center;justify-content:space-between;padding:0 10px;background:#fff;border:1px solid #E4E8ED;border-radius:6px;color:#242526;font-size:13px">{{ q.w }}<svg width="12" height="12" viewBox="0 0 12 12" fill="none" stroke="#686A6C" stroke-width="1.4"><path d="M2 4.5l4 4 4-4"></path></svg></div></div></div>
 </sc-for>
 </div></div>
 <div style="height:1px;background:#F1F5FA"></div>
 <div style="display:flex;flex-direction:column;gap:12px">
 <div style="display:flex;justify-content:space-between;align-items:flex-end;gap:24px">
-<div style="display:flex;flex-direction:column;gap:3px"><span style="font-size:14px;font-weight:600">Recommendation</span><span style="font-size:13px;color:#8B8D90">A recognised challenger reinforcing its position concentrates the full budget on 3s and 5s.</span></div>
-<div style="display:flex;flex-direction:column;gap:6px;width:300px;flex:none"><span style="display:flex;align-items:center;gap:4px;font-size:12px;font-weight:600;color:#464849">Attention levels</span><div style="height:36px;display:flex;align-items:center;justify-content:space-between;padding:0 12px;background:#fff;border:1px solid #E4E8ED;border-radius:6px;color:#242526;font-size:14px">2-part mix (3s, 5s)<svg width="12" height="12" viewBox="0 0 12 12" fill="none" stroke="#686A6C" stroke-width="1.4"><path d="M2 4.5l4 4 4-4"></path></svg></div></div>
+<div style="display:flex;flex-direction:column;gap:3px"><span style="font-size:14px;font-weight:600">Recommendation</span><span style="font-size:13px;color:#686A6C">A recognised challenger reinforcing its position concentrates the full budget on 3s and 5s.</span></div>
+<div style="display:flex;flex-direction:column;gap:6px;width:300px;flex:none"><span style="display:flex;align-items:center;gap:4px;font-size:12px;font-weight:600;color:#464849">Attention levels</span><div style="height:36px;display:flex;align-items:center;justify-content:space-between;padding:0 12px;background:#fff;border:1px solid #E4E8ED;border-radius:6px;color:#242526;font-size:13px">2-part mix (3s, 5s)<svg width="12" height="12" viewBox="0 0 12 12" fill="none" stroke="#686A6C" stroke-width="1.4"><path d="M2 4.5l4 4 4-4"></path></svg></div></div>
 </div>
 <div style="display:flex;flex-direction:column;gap:10px;background:#F1F5FA;border-radius:10px;padding:16px 24px 14px">
 <div style="display:grid;grid-template-columns:repeat(2,1fr)">
 <sc-for list="{{ levels }}" as="l" hint-placeholder-count="2">
 <div style="display:flex;justify-content:center;gap:24px;border-left:{{ l.bl }}">
-<div style="display:flex;flex-direction:column;align-items:center"><span style="font-size:20px;line-height:26px;font-weight:600;color:#242526">{{ l.s }}</span><span style="font-size:12px;color:#8B8D90">{{ l.name }}</span></div>
-<div style="display:flex;flex-direction:column;align-items:center"><span style="font-size:20px;line-height:26px;font-weight:600;color:{{ l.c }}">{{ l.pct }}</span><span style="font-size:12px;color:#8B8D90">{{ l.amt }}</span></div>
+<div style="display:flex;flex-direction:column;align-items:center"><span style="font-size:20px;line-height:26px;font-weight:600;color:#242526">{{ l.s }}</span><span style="font-size:12px;color:#686A6C">{{ l.name }}</span></div>
+<div style="display:flex;flex-direction:column;align-items:center"><span style="font-size:20px;line-height:26px;font-weight:600;color:{{ l.c }}">{{ l.pct }}</span><span style="font-size:12px;color:#686A6C">{{ l.amt }}</span></div>
 </div>
 </sc-for>
 </div>
-<span style="display:flex;justify-content:center;align-items:center;gap:8px;font-size:12px;color:#8B8D90">Split of the $2.2M fall budget<span>Percentages are rounded so the full budget is allocated.</span></span>
+<span style="display:flex;justify-content:center;align-items:center;gap:8px;font-size:12px;color:#686A6C">Split of the $2.2M fall budget<span>Percentages are rounded so the full budget is allocated.</span></span>
 </div></div>
 </div></div></div>
 </x-dc>
